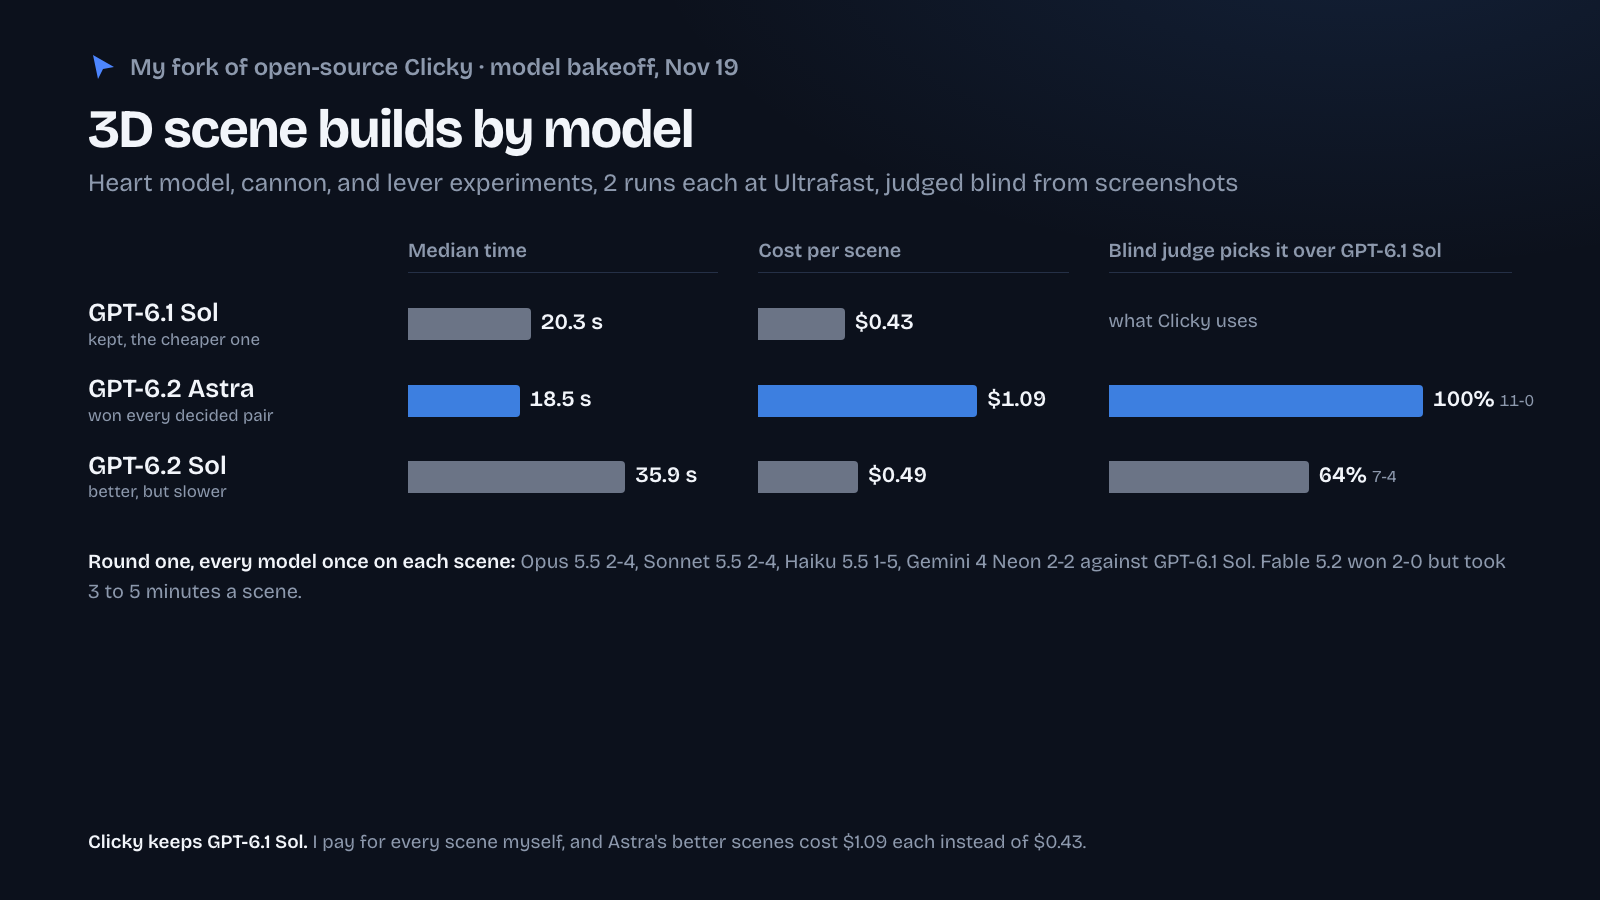
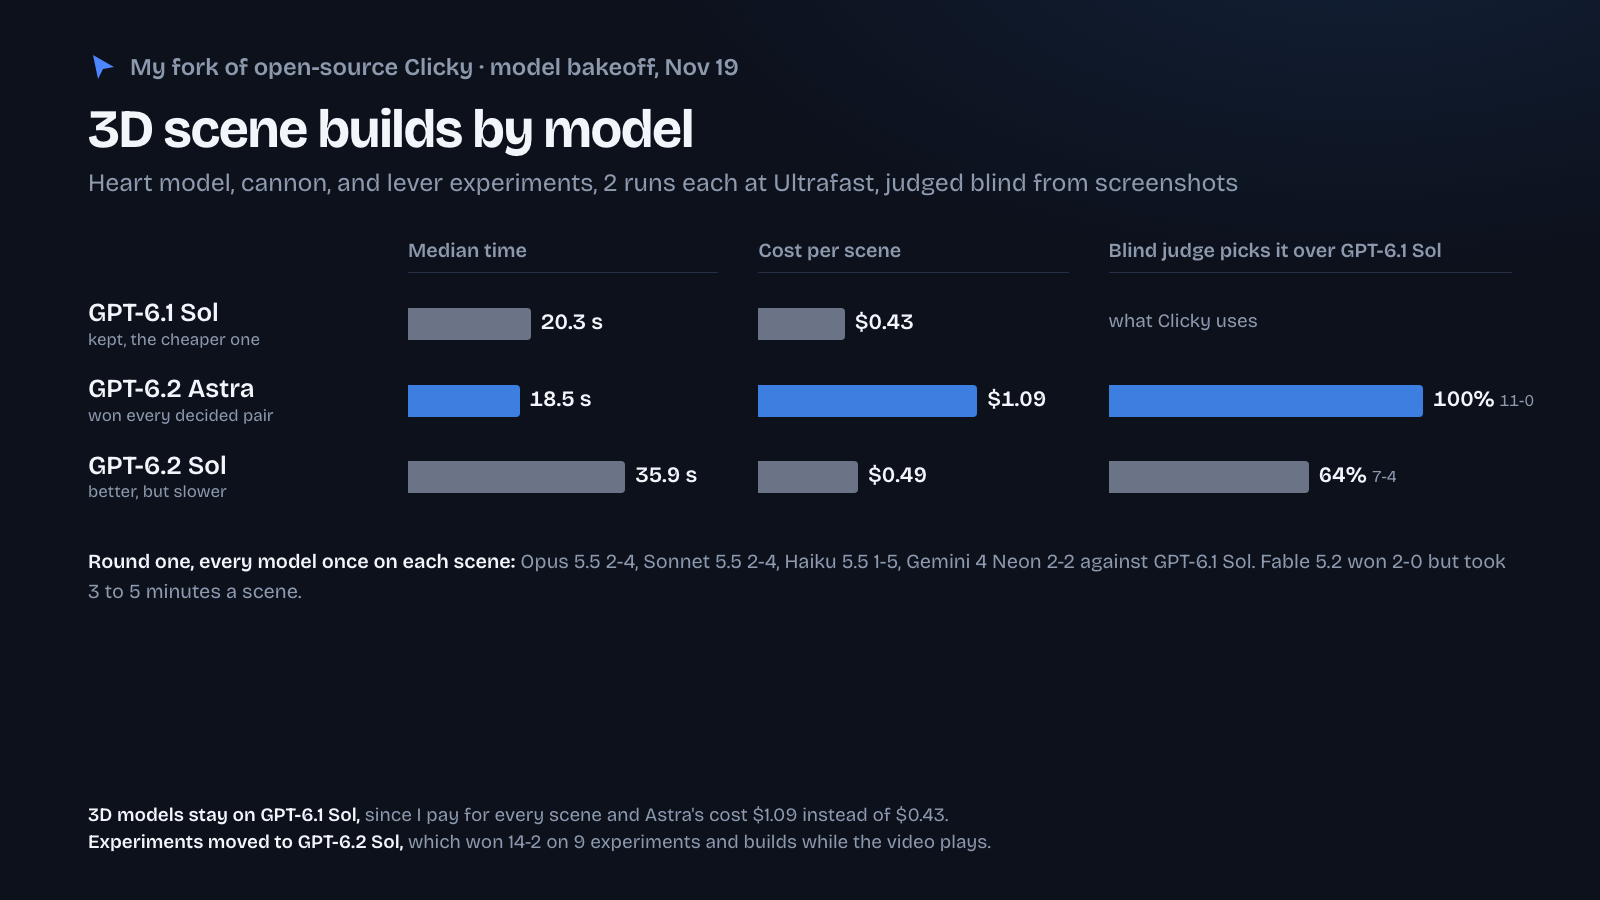
Show the experiment model switch on the bakeoff cards

Changed region(s): [[0.0625, 0.9022, 0.6562, 0.9644]]

diff --git a/bench/graphics/models-after-bakeoff.html b/bench/graphics/models-after-bakeoff.html
@@ -9,7 +9,7 @@
 <style>
   /* One row per call: the model before, the model after, and the measured reason. Changed rows carry the blue. */
   .rows { margin-top: 30px; border-top: 2px solid var(--text); }
-  .row { display: grid; grid-template-columns: 300px 380px 1fr; align-items: center; gap: 28px; padding: 13px 0; border-bottom: 1px solid var(--rule); }
+  .row { display: grid; grid-template-columns: 300px 380px 1fr; align-items: center; gap: 28px; padding: 9px 0; border-bottom: 1px solid var(--rule); }
   .name { font-size: 26px; font-weight: 600; }
   .models { display: flex; align-items: center; gap: 12px; font-size: 21px; }
   .pill { padding: 6px 14px; border-radius: 999px; font-weight: 600; white-space: nowrap; background: var(--ink-raised); border: 1px solid var(--rule); }
@@ -27,7 +27,7 @@
   <div class="subhead">7 models from 3 labs, 139 calls each, against the model each call used</div>
   <div class="rows" id="rows"></div>
   <div class="foot">
-    <div>A call could switch only when the new model passed every check, cost at most 3× as much,<br>and was 25% faster or won the blind judge. The 3D scene build met that bar and stayed on the cheaper model.</div>
+    <div>A call could switch only when the new model passed every check, cost at most 3× as much,<br>and was 25% faster or won the blind judge. The 3D model build met that bar and stayed on the cheaper model.</div>
   </div>
 </div>
 <script>
@@ -40,7 +40,8 @@
     { name: 'Pop-out parts', before: 'Sonnet 5.5', why: 'Haiku failed 3 of 21 and lost 0-12 in the blind judge' },
     { name: 'Voice reply', before: 'Sonnet 5.5', why: 'Haiku reached the first word 20% sooner, short of the 25% bar' },
     { name: 'Task agent', before: 'Sonnet 5.5', why: 'Sonnet takes 11 s, Opus took 25 s, and Fable 38 s' },
-    { name: '3D scene build', before: 'GPT-6.1 Sol', why: 'GPT-6.2 Astra won 11-0, at 2.5× the cost. I kept the cheaper one' },
+    { name: '3D model build', before: 'GPT-6.1 Sol', why: 'GPT-6.2 Astra won 11-0, at 2.5× the cost. I kept the cheaper one' },
+    { name: 'Experiment build', before: 'GPT-6.1 Sol', after: 'GPT-6.2 Sol', why: 'Won 14-2 on 9 experiments. Its extra 17 s runs while the video plays' },
   ];
   const rows = document.getElementById('rows');
   for (const call of calls) {

diff --git a/bench/graphics/scene-renders.html b/bench/graphics/scene-renders.html
@@ -34,7 +34,7 @@
   </div>
   <div class="round-one" id="roundOne"></div>
   <div class="foot">
-    <div><b>Clicky keeps GPT-6.1 Sol.</b> I pay for every scene myself, and Astra's better scenes cost $1.09 each instead of $0.43.</div>
+    <div><b>3D models stay on GPT-6.1 Sol,</b> since I pay for every scene and Astra's cost $1.09 instead of $0.43.<br><b>Experiments moved to GPT-6.2 Sol,</b> which won 14-2 on 9 experiments and builds while the video plays.</div>
   </div>
 </div>
 <script src="bakeoff-data.js"></script>
